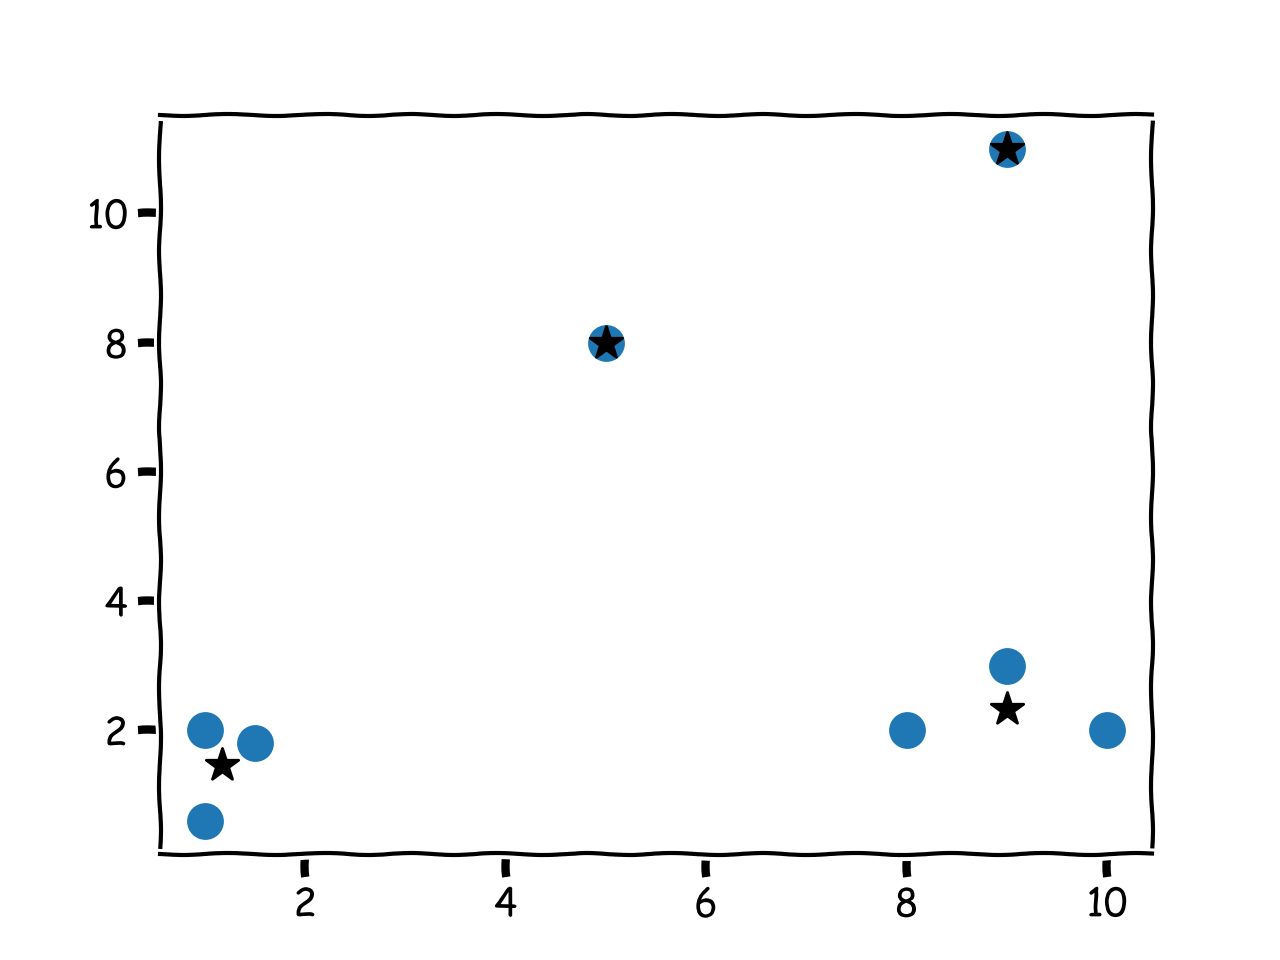
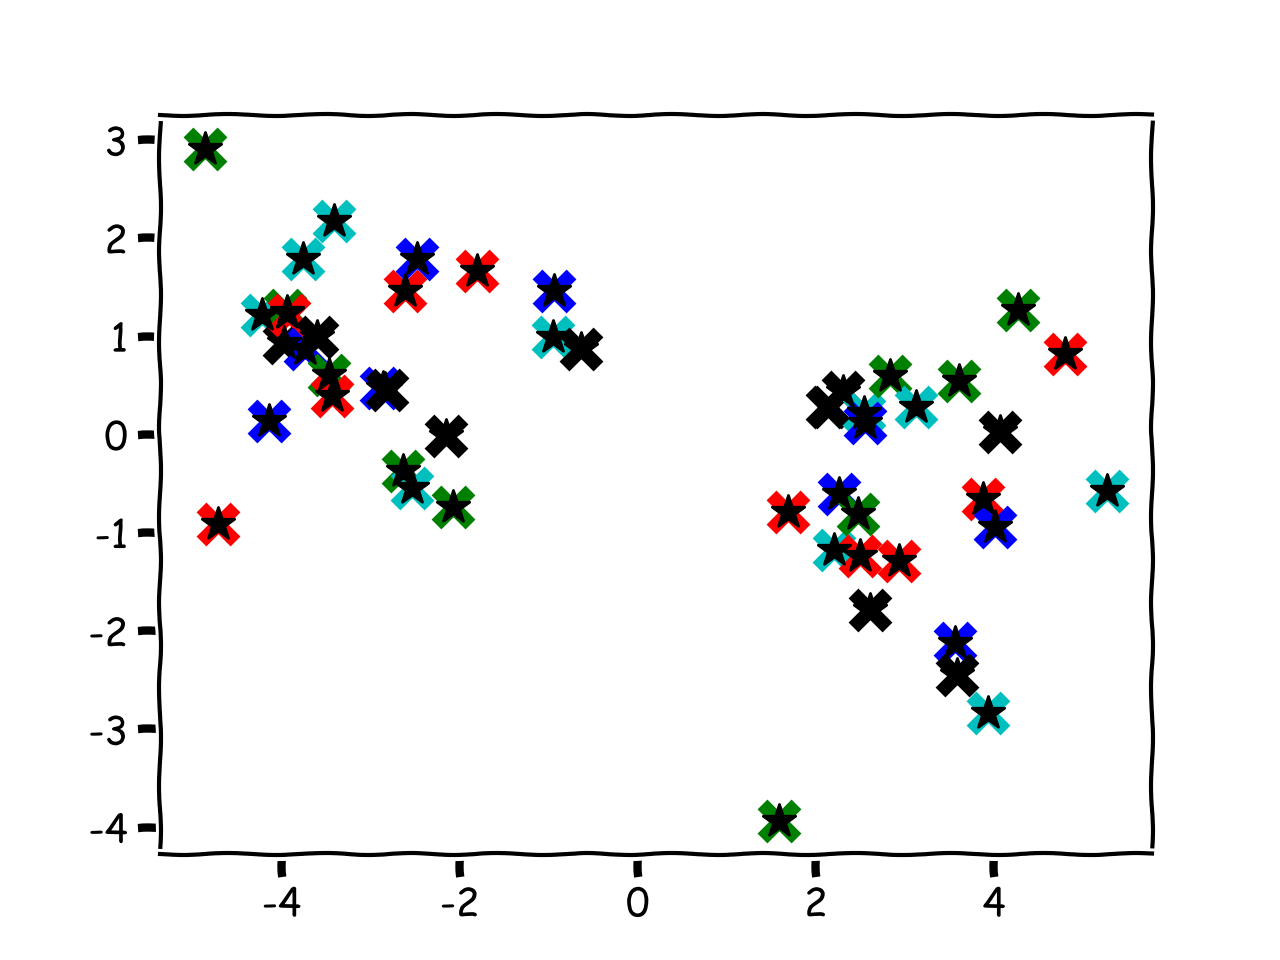
dynamic radius

diff --git a/mean_shifting.py b/mean_shifting.py
@@ -1,38 +1,60 @@
 import matplotlib.pyplot as plt
 from matplotlib import style
 plt.xkcd()
-
+from sklearn.datasets import make_blobs
 import numpy as np
+import random 
 
-X  = np.array([[1,2],
-			  [1.5, 1.8],
-			  [5, 8],
-			  [1, 0.6],
-			  [9, 11],
-			  [8, 2],
-			  [10, 2],
-			  [9, 3],])
+centers = random.randrange(2, 8)
+
+X, y = make_blobs(n_samples=50, centers=centers, n_features=2)
 
 colors = 10*['g', 'r', 'c', 'b', 'k']
 
 class Mean_Shift:
 	"""docstring for Mean_Shift"""
-	def __init__(self,  radius=4):
+	def __init__(self,  radius=None, radius_norm_step = 100):
 		super(Mean_Shift, self).__init__()
 		self.radius = radius
+		self.radius_norm_step = radius_norm_step
 
 	def fit(self, data):
+
+		if self.radius == None:
+			all_data_centroid = np.average(data, axis=0)
+			all_data_norm = np.linalg.norm(all_data_centroid)
+			self.radius = all_data_norm / self.radius_norm_step
+
+
+
 		centeroids = {}
 
 		for i in range(len(data)):
 			centeroids[i] = data[i]
+		
+		weights = [i for i in range(self.radius_norm_step)][::-1]
 
 		while True:
 			new_centroids = []
 			for i in centeroids:
 				in_bandwidth = []
 				centeroid = centeroids[i]
+
+				
+
 				for featureset in data:
+					distance = np.linalg.norm(featureset-centeroid)
+					if distance == 0:
+						distance = 0.000000001
+					weight_index = int(distance/self.radius)
+					if weight_index > self.radius_norm_step-1:
+						weight_index = self.radius_norm_step-1
+
+					to_add = (weights[weight_index]**2)*[featureset]
+					in_bandwidth += to_add
+
+
+
 					if np.linalg.norm(featureset-centeroid) < self.radius:
 						in_bandwidth.append(featureset)
 
@@ -40,6 +62,24 @@ class Mean_Shift:
 				new_centroids.append(tuple(new_centroid))
 
 			uniques = sorted(list(set(new_centroids)))
+
+			to_pop = []
+
+			for i in uniques:
+				for ii in uniques:
+					if i == ii:
+						pass
+					elif np.linalg.norm(np.array(i)-np.array(ii))<= self.radius:
+						to_pop.append(ii)
+						break
+
+			for i in to_pop:
+				try:
+					uniques.remove(i)
+				except:
+					pass
+
+						
 
 			prev_centroids = dict(centeroids)
 
@@ -58,17 +98,39 @@ class Mean_Shift:
 					break
 			if  optimized:
 				break
+
 		self.centeroids = centeroids
 
+		self.classifications = {}
+
+		for i in range(len(self.centeroids)):
+			self.classifications[i] = []
+
+		for featureset in data:
+			distances = [np.linalg.norm(featureset - self.centeroids[centeroid]) for centeroid in self.centeroids]
+			classification = distances.index(min(distances))
+			self.classifications[classification].append(featureset)
+
+
 	def predict(self, data):
-		pass
+		distances = [np.linalg.norm(featureset - self.centeroids[centeroid]) for centeroid in self.centeroids]
+		classification = distances.index(min(distances))
+		return classification
+
 
 clf = Mean_Shift()
 clf.fit(X)
 
 centeroids = clf.centeroids
 
-plt.scatter(X[: ,0], X[:, 1], s=150)
+#plt.scatter(X[: ,0], X[:, 1], s=150)
+
+for classification in clf.classifications:
+	color = colors[classification]
+	for featureset in clf.classifications[classification]:
+		plt.scatter(featureset[0], featureset[1], marker='x', color = color, s=150, linewidth=5)
+
+
 
 for c in centeroids:
 	plt.scatter(centeroids[c][0], centeroids[c][1], color='k', marker='*', s=150)
